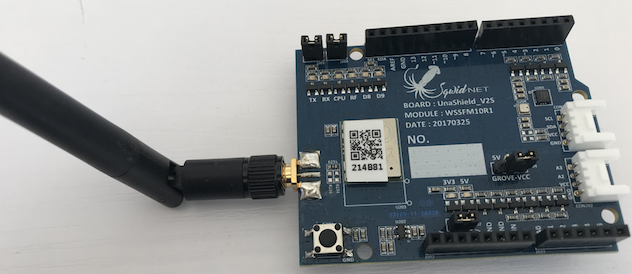
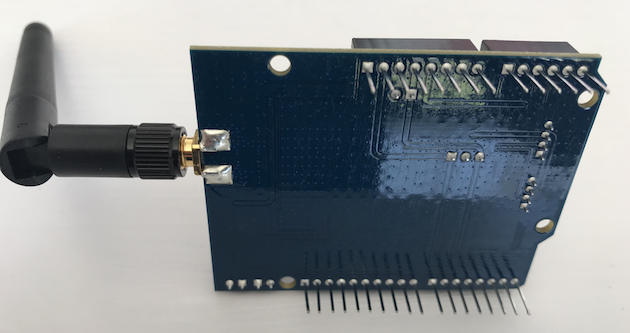
Updated

diff --git a/2018-04-27-title-of-my-post.md b/2018-04-27-title-of-my-post.md
@@ -2,27 +2,35 @@
 
 [Markdown Cheat Sheet](http://packetlife.net/media/library/16/Markdown.pdf)
 
-1. Arduino
+## Hardware Setup
+
+* Arduino
 
 ![Alt text](/sigfox/images/arduino.png "Arduino Uno")
 
-2.  Swidnet Unashield
+*  Swidnet Unashield
 
 ![Alt text](/sigfox/images/unashield_top.png "Unashield Top")
 
 ![Alt text](/sigfox/images/unashield_bottom.png "Unashield Bottom")
 
-3.  Arduino + Unashield
+*  Arduino + Unashield
 
 ![Alt text](/sigfox/images/arduino_unashield.png "Arduino + Unashield")
 
-4.  Arduino + Unashield + USB
+*  Arduino + Unashield + USB
 
 ![Alt text](/sigfox/images/arduino_unashield_usb.png "Arduino + Unashield + USB")
 
-5.  Device Registration
+## Sigfox/Swidnet Setup
 
-[Sigfox Device Registration](https://unabiz.github.io/unashield)
+*  Device Registration
 
+** [Sigfox Device Registration](https://unabiz.github.io/unashield)
 
-This is a new page...
+** Log into [Sigfox Backend](https://backend.sigfox.com)
+
+** [Check Device](https://backend.sigfox.com/device/list)
+
+![Alt text](/sigfox/images/backend_sigfox_device_list "Sigfox Backend Device List")
+
